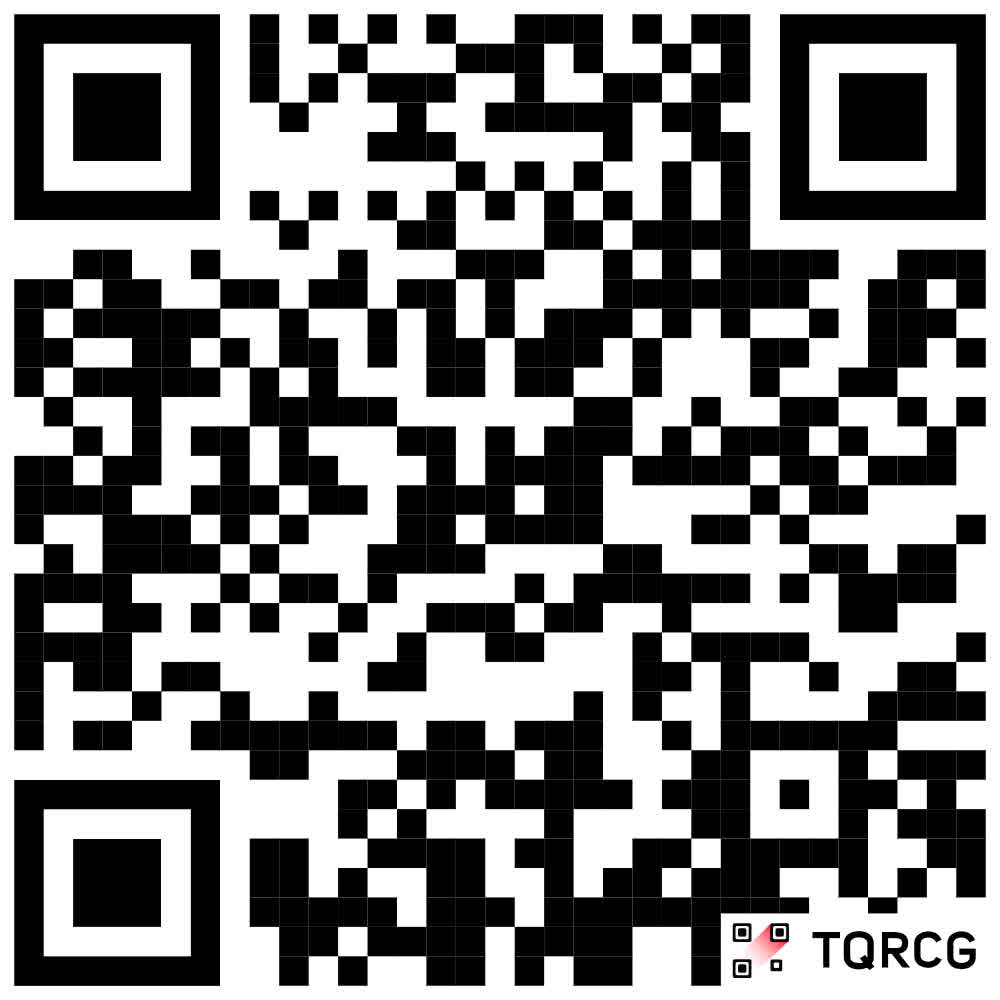
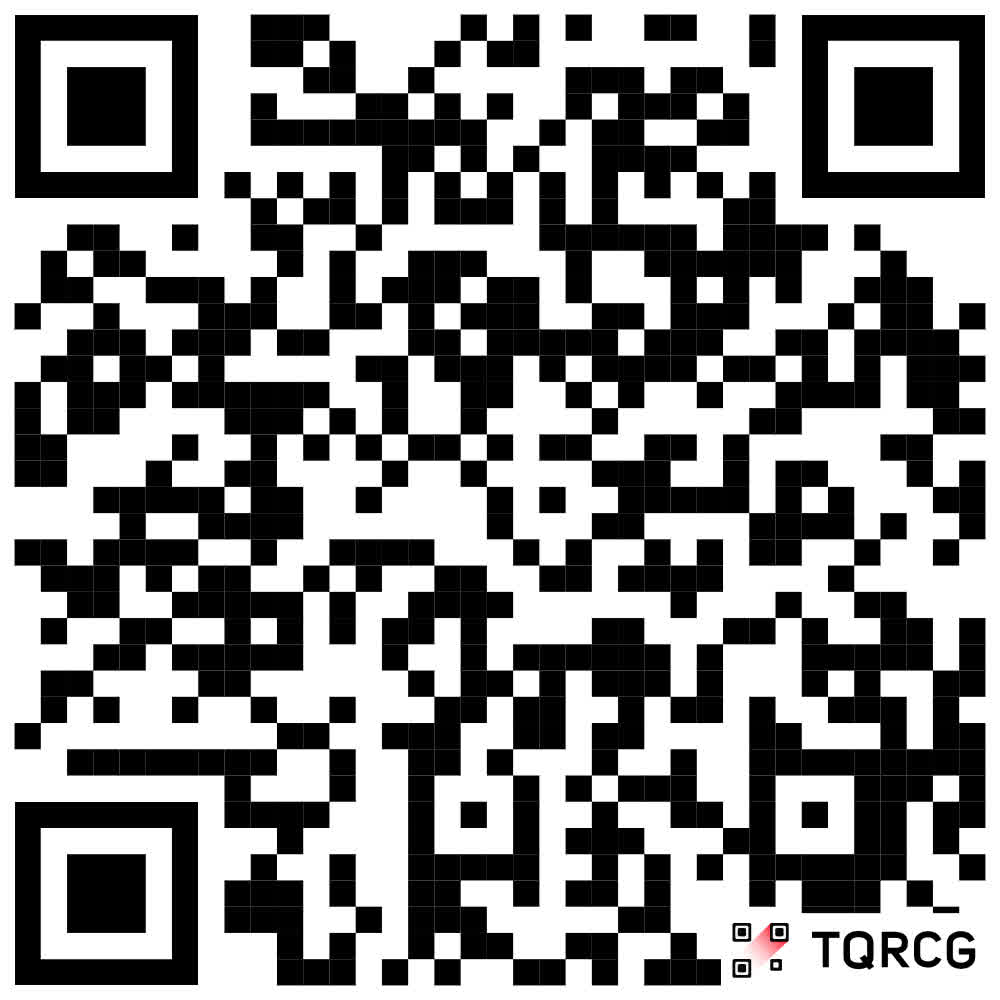
Ai for tabcc (#4)
* Add strip_components option to static pages workflow

* closed #1 updated nav links; updated cicd for deploy to correct directory

* Updated slides for AI presentation; added sitemap

* updated files to exclude; reordered ai presentation and slides

* updated short url for presentation

---------

diff --git a/docs/a.-i.-for-business-owners/999-questions.md b/docs/a.-i.-for-business-owners/999-questions.md
@@ -7,7 +7,7 @@ image: /a.-i.-for-business-owners/tabcc2026.jpg
 ## Request Consultation
 ## Explore Offers
 
-* rhtservices.net/tabcc2026
+* thealmostengineer.com/tabcc2026
 
 ## Connect With Me
 
